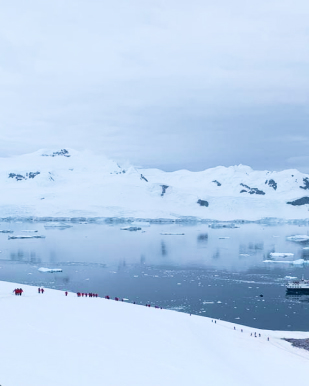
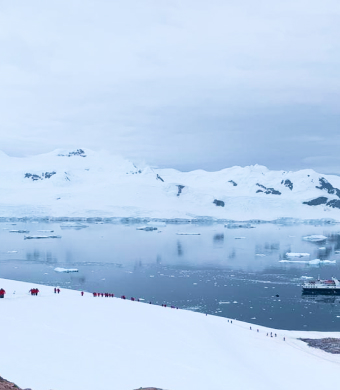
стили блока с ближайшими круизами (кадрирование изображений)

diff --git a/source/index.html b/source/index.html
@@ -194,7 +194,7 @@
                 <div class="card__overlay"></div>
                 <picture>
                   <source type="image/webp" srcset="img/content/cruise-odysseus.webp 1x, img/content/cruise-odysseus@2x.webp 2x">
-                  <img class="card__img" src="img/content/cruise-odysseus.jpg" srcset="img/content/cruise-odysseus@2x.jpg 2x" width="309" height="425" alt="Ледяные горы, вода и облака">
+                  <img class="card__img" src="img/content/cruise-odysseus.jpg" srcset="img/content/cruise-odysseus@2x.jpg 2x" width="335" height="455" alt="Ледяные горы, вода и облака">
                 </picture>
               </div>
 
@@ -222,7 +222,7 @@
                 <div class="card__overlay"></div>
                 <picture>
                   <source type="image/webp" srcset="img/content/cruise-olimpiya.webp 1x, img/content/cruise-olimpiya@2x.webp 2x">
-                  <img class="card__img" src="img/content/cruise-olimpiya.jpg" srcset="img/content/cruise-olimpiya@2x.jpg 2x" width="330" height="400" alt="Много пингвинов на фоне айсбергов">
+                  <img class="card__img" src="img/content/cruise-olimpiya.jpg" srcset="img/content/cruise-olimpiya@2x.jpg 2x" width="345" height="400" alt="Много пингвинов на фоне айсбергов">
                 </picture>
               </div>
 
@@ -250,7 +250,7 @@
                 <div class="card__overlay"></div>
                 <picture>
                   <source type="image/webp" srcset="img/content/cruise-aurora.webp 1x, img/content/cruise-aurora@2x.webp 2x">
-                  <img class="card__img" src="img/content/cruise-aurora.jpg" srcset="img/content/cruise-aurora@2x.jpg 2x" width="320" height="386" alt="Лед, скалы, вода, белое небо">
+                  <img class="card__img" src="img/content/cruise-aurora.jpg" srcset="img/content/cruise-aurora@2x.jpg 2x" width="330" height="386" alt="Лед, скалы, вода, белое небо">
                 </picture>
               </div>
 
@@ -278,7 +278,7 @@
                 <div class="card__overlay"></div>
                 <picture>
                   <source type="image/webp" srcset="img/content/cruise-leonor.webp 1x, img/content/cruise-leonor@2x.webp 2x">
-                  <img class="card__img" src="img/content/cruise-leonor.jpg" srcset="img/content/cruise-leonor@2x.jpg 2x" width="309" height="386" alt="Лодка на фоне ледяных гор">
+                  <img class="card__img" src="img/content/cruise-leonor.jpg" srcset="img/content/cruise-leonor@2x.jpg 2x" width="340" height="386" alt="Лодка на фоне ледяных гор">
                 </picture>
               </div>
 
@@ -306,7 +306,7 @@
                 <div class="card__overlay"></div>
                 <picture>
                   <source type="image/webp" srcset="img/content/cruise-minion-1.webp 1x, img/content/cruise-minion-1@2x.webp 2x">
-                  <img class="card__img" src="img/content/cruise-minion-1.jpg" srcset="img/content/cruise-minion-1@2x.jpg 2x" width="309" height="386" alt="Лед, вода, люди на берегу">
+                  <img class="card__img" src="img/content/cruise-minion-1.jpg" srcset="img/content/cruise-minion-1@2x.jpg 2x" width="340" height="390" alt="Лед, вода, люди на берегу">
                 </picture>
               </div>
 

diff --git a/source/sass/blocks/card.scss b/source/sass/blocks/card.scss
@@ -92,36 +92,42 @@
 
 .card--odysseus {
   img {
-    top: -28px;
-    left: -28px;
+    width: 310px;
+    top: 0;
+    left: -35px;
   }
 }
 
 .card--olimpiya {
   img {
-    top: -18px;
-    left: 0;
+    width: 320px;
+    top: 0;
+    left: -3px;
   }
 }
 
 .card--aurora {
   img {
     top: 0;
-    left: -15px;
+    left: -19px;
   }
 }
 
 .card--leonor {
   img {
+    width: 284px;
+    height: 100%;
     top: 0;
-    left: -22px;
+    left: -6px;
   }
 }
 
 .card--minion {
   img {
+    width: 287px;
+    height: 100%;
     top: 0;
-    left: -11px;
+    left: -14px;
   }
 }
 
@@ -162,6 +168,58 @@
     width: 309px;
   }
 
+  .card--astoriya {
+    img {
+      left: -49px;
+    }
+  }
+
+  .card--elain {
+    img {
+      left: -49px;
+    }
+  }
+
+  .card--atlantis {
+    img {
+      left: 0;
+    }
+  }
+
+  .card--odysseus {
+    img {
+      width: auto;
+      left: -18px;
+    }
+  }
+
+  .card--olimpiya {
+    img {
+      width: auto;
+      left: -21px;
+    }
+  }
+
+  .card--aurora {
+    img {
+      left: -14px;
+    }
+  }
+
+  .card--leonor {
+    img {
+      width: auto;
+      left: -9px;
+    }
+  }
+
+  .card--minion {
+    img {
+      width: auto;
+      left: -15px;
+    }
+  }
+
   .card__box {
     width: 309px;
     padding: 70px 35px 35px 35px;
@@ -186,13 +244,69 @@
 @include vp-320 {
   .card {
     h3 {
-      margin-bottom: 25px;
+      margin-bottom: 19px;
       margin-left: 25px;
     }
   }
 
   .card__img-box {
     width: 270px;
+  }
+
+  .card--astoriya {
+    img {
+      left: -69px;
+    }
+  }
+
+  .card--elain {
+    img {
+      left: -69px;
+    }
+  }
+
+  .card--atlantis {
+    img {
+      left: -20px;
+    }
+  }
+
+  .card--odysseus {
+    img {
+      width: 295px;
+      height: 455px;
+      left: -17px;
+    }
+  }
+
+  .card--olimpiya {
+    img {
+      width: 300px;
+      height: 400px;
+      left: -17px;
+    }
+  }
+
+  .card--aurora {
+    img {
+      left: -34px;
+    }
+  }
+
+  .card--leonor {
+    img {
+      width: 298px;
+      height: 386px;
+      left: -8px;
+    }
+  }
+
+  .card--minion {
+    img {
+      width: 298px;
+      height: 390px;
+      left: -15px;
+    }
   }
 
   .card__box {

diff --git a/source/sass/blocks/main-nav.scss b/source/sass/blocks/main-nav.scss
@@ -55,6 +55,10 @@ height: 38px;
      position: relative;
   }
 
+  .main-nav__link-logo {
+    margin-top: -10px;
+  }
+
   .main-nav__toggle {
     display: block;
     position: absolute;

diff --git a/source/sass/blocks/cruises.scss b/source/sass/blocks/cruises.scss
@@ -49,6 +49,8 @@
   }
 
   .cruises__list {
+    padding-left: 10px;
+    padding-right: 10px;
     grid-template-columns: repeat(auto-fill, 270px);
   }
 }
